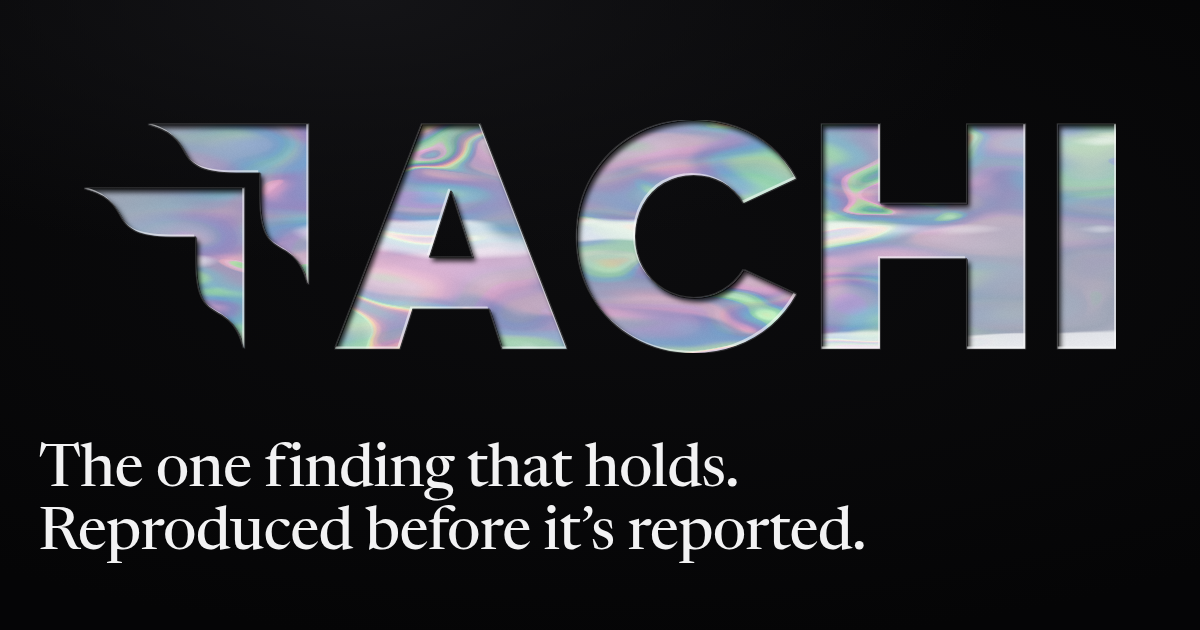
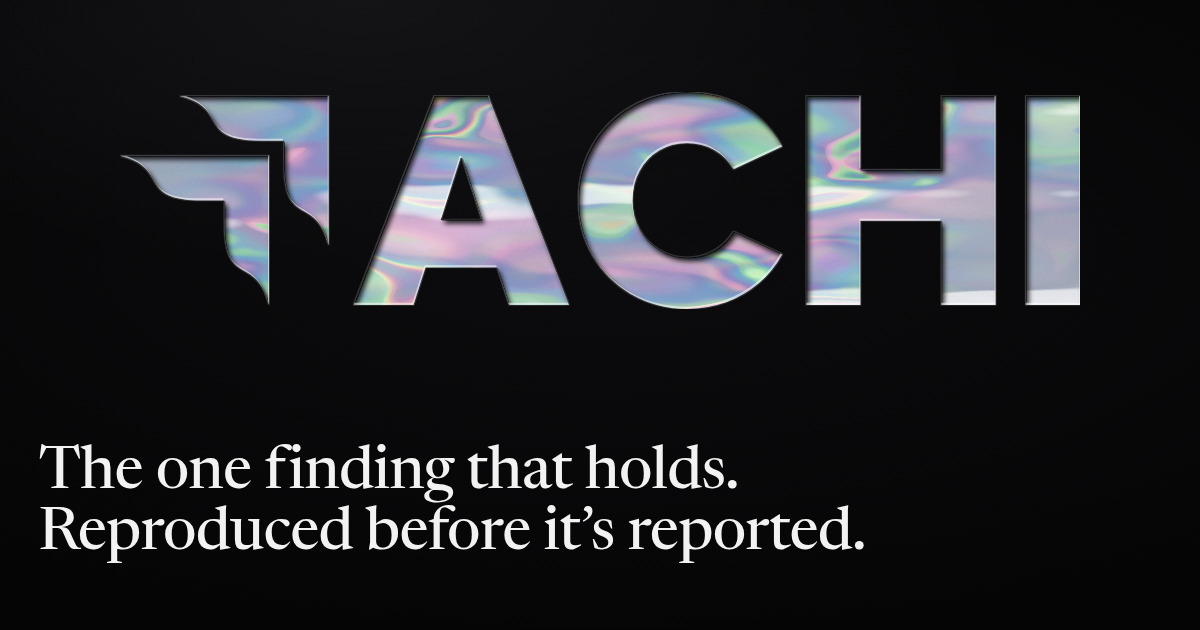
Enlarge the KKACHI page type to read at least as large as ls.bot
Newsreader's x-height is 0.426 em against Merriweather's 0.555, so equal
pixel sizes looked about 30% smaller. Body 22-23px, hero copy up to 28px,
H1 up to 80px, H2 up to 84px, labels 24px, chips and tags 15px. The hero
is tightened so the CTA stays above the fold at 1024 x 768 and up.

Changed region(s): [[0.0617, 0.1206, 0.9558, 0.573], [0.0308, 0.6937, 0.6167, 0.8143]]

diff --git a/assets/kkachi/site.css b/assets/kkachi/site.css
@@ -28,7 +28,7 @@
 
 *, *::before, *::after { box-sizing: border-box; }
 html { background: var(--void); color: var(--text); scroll-behavior: smooth; -webkit-text-size-adjust: 100%; }
-body { margin: 0; font: 400 19px/1.55 var(--serif); font-optical-sizing: auto; -webkit-font-smoothing: antialiased; -moz-osx-font-smoothing: grayscale; text-rendering: optimizeLegibility; overflow-x: hidden; }
+body { margin: 0; font: 400 22px/1.55 var(--serif); font-optical-sizing: auto; -webkit-font-smoothing: antialiased; -moz-osx-font-smoothing: grayscale; text-rendering: optimizeLegibility; overflow-x: hidden; }
 a { color: inherit; }
 abbr[title] { text-decoration: underline dotted rgba(255, 255, 255, .45); text-decoration-thickness: 1.5px; text-underline-offset: .14em; cursor: help; }
 ::selection { background: var(--text); color: var(--void); }
@@ -40,23 +40,23 @@ abbr[title] { text-decoration: underline dotted rgba(255, 255, 255, .45); text-d
 /* ── nav ───────────────────────────────────────── */
 .nav { position: absolute; top: 0; right: 0; z-index: 10; padding: 20px var(--pad-x); }
 .nav nav { display: flex; gap: clamp(18px, 2.2vw, 32px); }
-.nav a { font: 700 15px/1 var(--cond); letter-spacing: .09em; text-transform: uppercase; color: #D2D2D6; text-decoration: none; padding: 6px 2px; text-shadow: 0 0 4px var(--void), 0 0 10px var(--void), 0 0 18px var(--void); }
+.nav a { font: 700 18px/1 var(--cond); letter-spacing: .08em; text-transform: uppercase; color: #D2D2D6; text-decoration: none; padding: 6px 2px; }
 .nav a:hover { color: var(--text); }
 
 /* ── hero: the wordmark set in lacquer ───────────── */
 .hero { position: relative; display: flex; flex-direction: column; min-height: 100vh; min-height: 100svh; max-height: 1240px; overflow: hidden; isolation: isolate;
   background: radial-gradient(90% 70% at 30% 0%, #141417 0%, transparent 60%), radial-gradient(120% 90% at 50% 40%, #0C0C0E 0%, var(--void) 70%); }
-.hero-mark { --wm: url("brand/kkachi-wordmark.svg"); position: relative; z-index: 1; width: min(86vw, 1320px); aspect-ratio: 193.25 / 43.62; margin: clamp(112px, 19vh, 230px) auto 0; transform: translateY(calc(var(--p, 0) * 11vh)); will-change: transform; }
+.hero-mark { --wm: url("brand/kkachi-wordmark.svg"); position: relative; z-index: 1; width: min(80vw, 1240px, 330vh); aspect-ratio: 193.25 / 43.62; margin: clamp(92px, 13vh, 200px) auto 0; transform: translateY(calc(var(--p, 0) * 11vh)); will-change: transform; }
 .hero-nacre, .hero-sheen, .hero-mark svg { position: absolute; inset: 0; width: 100%; height: 100%; display: block; }
 .hero-nacre, .hero-sheen { -webkit-mask: var(--wm) center / 100% 100% no-repeat; mask: var(--wm) center / 100% 100% no-repeat; }
 .hero-nacre { background: url("nacre-512.webp") 40% 30% / 420px; filter: brightness(calc(1 - var(--p, 0) * .9)); }
 .hero-sheen { background: linear-gradient(104deg, transparent 0 42%, rgba(255, 255, 255, .5) 50%, transparent 58% 100%) 140% 0 / 260% 100% no-repeat; mix-blend-mode: soft-light; opacity: 0; }
-.hero-copy { position: relative; z-index: 3; margin-top: auto; padding: clamp(56px, 9vh, 120px) var(--pad-x) clamp(44px, 7vh, 80px); }
-.hero h1 { font: 450 clamp(38px, min(4.2vw, 7vh), 68px)/1.04 var(--serif); letter-spacing: -.014em; margin: 0 0 26px; text-wrap: balance; }
+.hero-copy { position: relative; z-index: 3; margin-top: auto; padding: clamp(36px, 5vh, 96px) var(--pad-x) clamp(36px, 5.5vh, 72px); }
+.hero h1 { font: 450 clamp(44px, min(5.4vw, 8.8vh), 80px)/1.02 var(--serif); letter-spacing: -.014em; margin: 0 0 22px; text-wrap: balance; }
 .hero h1 .line { display: block; }
-.hero p { font-size: clamp(18px, 1.5vw, 23px); line-height: 1.36; color: #E4E4E8; margin: 0 0 18px; max-width: 33em; text-wrap: pretty; }
-.hero p.lede { margin-bottom: 26px; }
-.cta { font-size: 17px !important; line-height: 2.1 !important; color: var(--dim) !important; }
+.hero p { font-size: clamp(21px, 1.95vw, 28px); line-height: 1.34; color: #E4E4E8; margin: 0 0 18px; max-width: 33em; text-wrap: pretty; }
+.hero p.lede { margin-bottom: 14px; }
+.cta { font-size: 21px !important; line-height: 2 !important; color: var(--dim) !important; }
 .btn { display: inline-flex; align-items: baseline; gap: 7px; margin: 0 3px; padding: 2px 10px 3px; border: 1px solid rgba(255, 255, 255, .72); border-radius: 3px; color: var(--text); text-decoration: none; line-height: 1.45; transition: background .18s, color .18s; }
 .btn:hover { background: var(--text); color: var(--void); }
 .arw { font: 400 .92em/1 var(--mono); }
@@ -71,21 +71,21 @@ abbr[title] { text-decoration: underline dotted rgba(255, 255, 255, .45); text-d
 .band-char { background: var(--char); }
 .band-deep { background: var(--deep); }
 .band + .band-char { border-top: 1px solid rgba(255, 255, 255, .05); }
-.col { max-width: 720px; margin: 0 auto; }
-h2 { font: 450 clamp(44px, 5.2vw, 70px)/1.04 var(--serif); letter-spacing: -.012em; text-align: center; margin: 0 0 clamp(36px, 4vw, 52px); }
-.col p { font-size: 20px; line-height: 1.58; color: var(--soft); margin: 0 0 22px; text-wrap: pretty; }
+.col { max-width: 780px; margin: 0 auto; }
+h2 { font: 450 clamp(50px, 5.8vw, 84px)/1.02 var(--serif); letter-spacing: -.012em; text-align: center; margin: 0 0 clamp(36px, 4vw, 52px); }
+.col p { font-size: 23px; line-height: 1.55; color: var(--soft); margin: 0 0 22px; text-wrap: pretty; }
 .col p.lede { color: var(--text); }
-.col p.sub { text-align: center; font: 400 15px/1.4 var(--mono); color: var(--dim); margin-top: -18px; letter-spacing: .02em; }
+.col p.sub { text-align: center; font: 400 17px/1.4 var(--mono); color: var(--dim); margin-top: -18px; letter-spacing: .02em; }
 
-.label { font: 800 19px/1.05 var(--cond); letter-spacing: .045em; text-transform: uppercase; color: var(--text); margin: 0 0 12px; }
+.label { font: 800 24px/1.05 var(--cond); letter-spacing: .04em; text-transform: uppercase; color: var(--text); margin: 0 0 12px; }
 
 /* chips with tooltips (ls.bot) */
 .chips { display: flex; flex-wrap: wrap; justify-content: center; gap: 12px; list-style: none; padding: 0; margin: 38px 0 0; }
 .chips li { position: relative; }
-.chip { display: inline-flex; align-items: center; gap: 8px; padding: 8px 10px 8px 11px; font: 400 13.5px/1 var(--mono); color: var(--text); background: transparent; border: 1px solid rgba(255, 255, 255, .5); border-radius: 4px; cursor: help; transition: border-color .15s, background .15s; }
+.chip { display: inline-flex; align-items: center; gap: 8px; padding: 9px 12px 9px 13px; font: 400 15px/1 var(--mono); color: var(--text); background: transparent; border: 1px solid rgba(255, 255, 255, .5); border-radius: 4px; cursor: help; transition: border-color .15s, background .15s; }
 .chip:hover, .chip:focus-visible { border-color: var(--text); background: rgba(255, 255, 255, .06); }
-.chip .i { width: 14px; height: 14px; color: var(--dim); }
-.tip { position: absolute; z-index: 6; bottom: calc(100% + 10px); left: 50%; width: max-content; max-width: 250px; padding: 9px 11px; background: var(--text); color: #0B0B0C; font: 400 12.5px/1.45 var(--mono); text-align: left; border-radius: 4px; pointer-events: none; opacity: 0; visibility: hidden; transform: translate(-50%, 4px); transition: opacity .15s, transform .15s, visibility .15s; }
+.chip .i { width: 16px; height: 16px; color: var(--dim); }
+.tip { position: absolute; z-index: 6; bottom: calc(100% + 10px); left: 50%; width: max-content; max-width: 290px; padding: 10px 13px; background: var(--text); color: #0B0B0C; font: 400 14px/1.45 var(--mono); text-align: left; border-radius: 4px; pointer-events: none; opacity: 0; visibility: hidden; transform: translate(-50%, 4px); transition: opacity .15s, transform .15s, visibility .15s; }
 .tip::after { content: ""; position: absolute; top: 100%; left: 50%; margin-left: -5px; border: 5px solid transparent; border-top-color: var(--text); }
 .chips li:hover .tip, .chip:focus-visible + .tip { opacity: 1; visibility: visible; transform: translate(-50%, 0); }
 
@@ -93,7 +93,7 @@ h2 { font: 450 clamp(44px, 5.2vw, 70px)/1.04 var(--serif); letter-spacing: -.012
 .panels { display: grid; grid-template-columns: repeat(2, minmax(0, 1fr)); gap: clamp(24px, 3vw, 40px); max-width: 940px; margin: clamp(72px, 8vw, 104px) auto 0; }
 .panel-box { background: var(--plate); border-top: 2px solid var(--edge); border-bottom: 2px solid var(--edge); padding: clamp(14px, 2vw, 24px); }
 .panel-box svg { display: block; width: 100%; height: auto; }
-.cap { margin: 14px 0 0; text-align: center; font: 400 14px/1.4 var(--mono); color: var(--dim); }
+.cap { margin: 16px 0 0; text-align: center; font: 400 16px/1.4 var(--mono); color: var(--dim); }
 
 /* interlude art sits on the bottom edge of The Signal (ls.bot's arm) */
 .band-signal { padding-bottom: 0; }
@@ -103,12 +103,12 @@ h2 { font: 450 clamp(44px, 5.2vw, 70px)/1.04 var(--serif); letter-spacing: -.012
 /* products */
 .cards { display: grid; grid-template-columns: repeat(2, minmax(0, 1fr)); gap: clamp(24px, 3vw, 36px); max-width: 1180px; margin: clamp(64px, 7vw, 96px) auto 0; }
 .card-box { background: var(--plate-deep); border-top: 2px solid var(--edge); border-bottom: 2px solid var(--edge); padding: 22px 24px 24px; }
-.card-box p { font-size: 18px; line-height: 1.55; color: #CFCFD4; margin: 0 0 20px; text-wrap: pretty; }
+.card-box p { font-size: 21px; line-height: 1.52; color: #CFCFD4; margin: 0 0 20px; text-wrap: pretty; }
 .tags { display: flex; flex-wrap: wrap; gap: 8px; list-style: none; padding: 0; margin: 0; }
-.tags li { font: 400 13px/1 var(--mono); color: #111113; background: #C9C9CE; padding: 6px 9px 7px; border-radius: 3px; }
+.tags li { font: 400 14.5px/1 var(--mono); color: #111113; background: #C9C9CE; padding: 7px 10px 8px; border-radius: 3px; }
 .uses { display: grid; grid-template-columns: repeat(3, minmax(0, 1fr)); gap: clamp(24px, 3vw, 36px); max-width: 1180px; margin: clamp(48px, 5vw, 64px) auto 0; }
 .use { border-top: 1px solid var(--rule); padding-top: 18px; }
-.use p { font-size: 17px; line-height: 1.55; color: var(--dim); margin: 0; }
+.use p { font-size: 20px; line-height: 1.5; color: var(--dim); margin: 0; }
 
 /* cyberspace: nacre seen only through the grid */
 .cyber { position: relative; overflow: hidden; background: var(--void); padding: clamp(110px, 13vw, 168px) var(--pad-x) clamp(440px, 64vh, 620px); isolation: isolate; }
@@ -122,21 +122,24 @@ h2 { font: 450 clamp(44px, 5.2vw, 70px)/1.04 var(--serif); letter-spacing: -.012
 /* footer */
 .foot { background: var(--black); padding: clamp(80px, 9vw, 120px) var(--pad-x) 56px; }
 .foot-cols { display: grid; grid-template-columns: repeat(3, minmax(0, 1fr)); gap: 32px; max-width: 1180px; margin: 0 auto; }
-.foot .label { font-size: 15px; margin-bottom: 14px; }
+.foot .label { font-size: 20px; margin-bottom: 16px; }
 .foot ul { list-style: none; margin: 0; padding: 0; }
 .foot li { margin: 0 0 8px; }
-.foot li a { font-size: 16px; color: var(--soft); text-underline-offset: 3px; text-decoration-color: rgba(255, 255, 255, .35); }
+.foot li a { font-size: 19px; color: var(--soft); text-underline-offset: 3px; text-decoration-color: rgba(255, 255, 255, .35); }
 .foot li a:hover { color: var(--text); text-decoration-color: currentColor; }
 .foot-mark { width: min(520px, 78vw); margin: clamp(90px, 11vw, 140px) auto clamp(56px, 7vw, 84px); }
 .foot-mark svg { display: block; width: 100%; height: auto; }
-.fine { text-align: center; margin: 0; font: 400 14px/1.4 var(--mono); color: var(--dim); }
+.fine { text-align: center; margin: 0; font: 400 15px/1.4 var(--mono); color: var(--dim); }
 
 /* ── small screens ─────────────────────────────── */
 @media (max-width: 820px) {
-  body { font-size: 18px; }
+  body { font-size: 20px; }
   .nav { left: 0; padding-top: 16px; }
   .nav nav { justify-content: flex-end; }
-  .col p { font-size: 18px; }
+  .col p { font-size: 20px; }
+  .card-box p, .use p { font-size: 19px; }
+  .label { font-size: 22px; }
+  .nav a { font-size: 16px; }
   .panels, .cards, .uses, .foot-cols { grid-template-columns: minmax(0, 1fr); }
   .panels { max-width: 460px; }
   .foot-cols { gap: 28px; }
